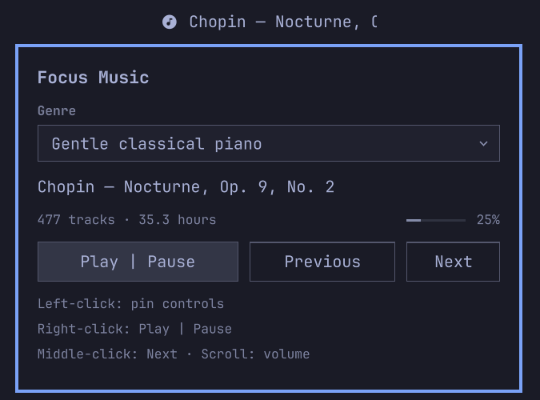
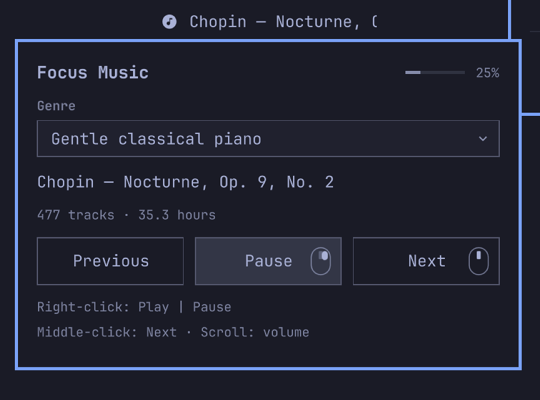
Refine playback controls and make volume feedback immediate

diff --git a/BarWidget.qml b/BarWidget.qml
@@ -21,6 +21,33 @@ BarWidget {
         Quickshell.execDetached(command)
     }
     property var player: ({text: "", phase: "Stopped", banner: "Focus music", tooltip: "Focus music — click to choose a genre"})
+    property real displayedVolume: 20
+    property bool volumePending: false
+    onPlayerChanged: {
+        if (!volumeChange.running && !volumePending && player.volume !== undefined)
+            displayedVolume = player.volume
+    }
+    function adjustVolume(delta) {
+        displayedVolume = Math.max(0, Math.min(100, displayedVolume + delta))
+        volumePending = true
+        flushVolume()
+    }
+    function flushVolume() {
+        if (volumeChange.running || !volumePending) return
+        volumePending = false
+        volumeChange.command = ["python3", controllerPath, "volume-set", String(displayedVolume)]
+        volumeChange.running = true
+    }
+    Process {
+        id: volumeChange
+        stdout: StdioCollector { id: volumeResult }
+        onExited: function(exitCode) {
+            if (!root.volumePending && exitCode === 0) {
+                try { root.displayedVolume = JSON.parse(volumeResult.text).volume } catch (e) {}
+            }
+            Qt.callLater(root.flushVolume)
+        }
+    }
     implicitWidth: button.implicitWidth
     implicitHeight: button.implicitHeight
 
@@ -44,7 +71,7 @@ BarWidget {
         }
     }
     Timer {
-        interval: 2000
+        interval: root.popupOpen ? 400 : 2000
         running: true
         repeat: true
         triggeredOnStart: true
@@ -73,7 +100,7 @@ BarWidget {
             }
         }
         onWheelMoved: function(delta) {
-            root.runAction("volume", delta > 0 ? 5 : -5)
+            root.adjustVolume(delta > 0 ? 5 : -5)
         }
         OpticalGlyph {
             id: glyph
@@ -174,13 +201,33 @@ BarWidget {
             id: controls
             anchors.fill: parent
             spacing: Style.space(10)
-            Text {
+            RowLayout {
                 width: parent.width
-                text: "Focus Music"
-                color: Color.foreground
-                font.family: Style.font.family
-                font.pixelSize: Style.font.subtitle
-                font.bold: true
+                spacing: Style.space(8)
+                Text {
+                    Layout.fillWidth: true
+                    text: "Focus Music"
+                    color: Color.foreground
+                    font.family: Style.font.family
+                    font.pixelSize: Style.font.subtitle
+                    font.bold: true
+                }
+                Rectangle {
+                    implicitWidth: Style.space(44)
+                    implicitHeight: Style.space(2)
+                    color: Qt.rgba(Color.foreground.r, Color.foreground.g, Color.foreground.b, 0.15)
+                    Rectangle {
+                        width: parent.width * root.displayedVolume / 100
+                        height: parent.height
+                        color: Qt.rgba(Color.foreground.r, Color.foreground.g, Color.foreground.b, 0.7)
+                    }
+                }
+                Text {
+                    text: Math.round(root.displayedVolume) + "%"
+                    color: Qt.rgba(Color.foreground.r, Color.foreground.g, Color.foreground.b, 0.7)
+                    font.family: Style.font.family
+                    font.pixelSize: Style.font.caption
+                }
             }
             Dropdown {
                 id: genreSelect
@@ -217,40 +264,61 @@ BarWidget {
                     font.family: Style.font.family
                     font.pixelSize: Style.font.caption
                 }
-                Rectangle {
-                    implicitWidth: Style.space(44)
-                    implicitHeight: Style.space(2)
-                    color: Qt.rgba(Color.foreground.r, Color.foreground.g, Color.foreground.b, 0.15)
-                    Rectangle {
-                        width: parent.width * Math.max(0, Math.min(100, root.player.volume || 0)) / 100
-                        height: parent.height
-                        color: Qt.rgba(Color.foreground.r, Color.foreground.g, Color.foreground.b, 0.7)
-                    }
-                }
-                Text {
-                    text: (root.player.volume === undefined ? 20 : root.player.volume) + "%"
-                    color: Qt.rgba(Color.foreground.r, Color.foreground.g, Color.foreground.b, 0.7)
-                    font.family: Style.font.family
-                    font.pixelSize: Style.font.caption
-                }
             }
             RowLayout {
+                id: playbackControls
                 width: parent.width
                 spacing: Style.space(8)
+                readonly property real buttonWidth: (width - spacing * 2) / 3
                 Button {
-                    Layout.fillWidth: true
-                    text: "Play | Pause"
+                    Layout.preferredWidth: playbackControls.buttonWidth
+                    Layout.minimumWidth: playbackControls.buttonWidth
+                    Layout.maximumWidth: playbackControls.buttonWidth
+                    Layout.preferredHeight: Style.space(36)
+                    text: "Previous"
+                    bordered: true
+                    focusable: true
+                    onClicked: root.runAction("previous")
+                }
+                Button {
+                    Layout.preferredWidth: playbackControls.buttonWidth
+                    Layout.minimumWidth: playbackControls.buttonWidth
+                    Layout.maximumWidth: playbackControls.buttonWidth
+                    Layout.preferredHeight: Style.space(36)
+                    text: root.player.phase === "Playing" ? "Pause" : "Play"
                     active: root.player.phase === "Playing"
                     bordered: true
                     focusable: true
+                    tooltipText: "Right-click the banner to play or pause"
                     onClicked: root.runAction("toggle")
+                    MouseHint {
+                        button: "right"
+                        anchors.right: parent.right
+                        anchors.rightMargin: Style.space(8)
+                        anchors.verticalCenter: parent.verticalCenter
+                    }
                 }
-                Button { Layout.fillWidth: true; text: "Previous"; bordered: true; focusable: true; onClicked: root.runAction("previous") }
-                Button { Layout.fillWidth: true; text: "Next"; bordered: true; focusable: true; onClicked: root.runAction("skip") }
+                Button {
+                    Layout.preferredWidth: playbackControls.buttonWidth
+                    Layout.minimumWidth: playbackControls.buttonWidth
+                    Layout.maximumWidth: playbackControls.buttonWidth
+                    Layout.preferredHeight: Style.space(36)
+                    text: "Next"
+                    bordered: true
+                    focusable: true
+                    tooltipText: "Middle-click the banner for the next track"
+                    onClicked: root.runAction("skip")
+                    MouseHint {
+                        button: "middle"
+                        anchors.right: parent.right
+                        anchors.rightMargin: Style.space(8)
+                        anchors.verticalCenter: parent.verticalCenter
+                    }
+                }
             }
             Text {
                 width: parent.width
-                text: "Left-click: pin controls\nRight-click: Play | Pause\nMiddle-click: Next · Scroll: volume"
+                text: "Right-click: Play | Pause\nMiddle-click: Next · Scroll: volume"
                 textFormat: Text.PlainText
                 color: Qt.rgba(Color.foreground.r, Color.foreground.g, Color.foreground.b, 0.7)
                 font.family: Style.font.family

diff --git a/MouseHint.qml b/MouseHint.qml
@@ -1,0 +1,34 @@
+import QtQuick
+import qs.Commons
+
+Item {
+    property string button: "right"
+    width: Style.space(15)
+    height: Style.space(21)
+    Rectangle {
+        anchors.fill: parent
+        radius: width / 2
+        color: "transparent"
+        border.width: Style.space(1)
+        border.color: Color.foreground
+        opacity: 0.65
+    }
+    Rectangle {
+        visible: button === "right"
+        x: parent.width / 2 + Style.space(1)
+        y: Style.space(3)
+        width: parent.width / 2 - Style.space(3)
+        height: Style.space(7)
+        radius: Style.space(2)
+        color: Color.foreground
+    }
+    Rectangle {
+        anchors.horizontalCenter: parent.horizontalCenter
+        y: Style.space(3)
+        width: Style.space(3)
+        height: Style.space(6)
+        radius: Style.space(1)
+        color: Color.foreground
+        opacity: button === "middle" ? 1 : 0.35
+    }
+}

diff --git a/tests/test_focus_music.py b/tests/test_focus_music.py
@@ -92,6 +92,13 @@ class DeploymentTests(unittest.TestCase):
                     self.assertEqual(json.loads(result.stdout)['phase'], 'Stopped')
                     subprocess.run(command + ['volume', '5'], env=env, cwd=install,
                                    capture_output=True, text=True, check=True)
+                    for requested, expected in [('100', 100), ('95', 95), ('-5', 0), ('30', 30)]:
+                        result = subprocess.run(command + ['volume-set', requested], env=env,
+                                                cwd=install, capture_output=True, text=True, check=True)
+                        self.assertEqual(json.loads(result.stdout)['volume'], expected)
+                    result = subprocess.run(command + ['status'], env=env, cwd=install,
+                                            capture_output=True, text=True, check=True)
+                    self.assertEqual(json.loads(result.stdout)['volume'], 30)
                     state_root = Path(env.get('XDG_STATE_HOME') or home / '.local/state')
                     self.assertTrue((state_root / 'focus-music/state.json').exists())
                     self.assertFalse((install / 'focus-music/state.json').exists())

diff --git a/README.md b/README.md
@@ -9,7 +9,7 @@ Instrumental background music, one click from your desktop bar. Pick a genre, se
 - Five instrumental genres, each with more than 24 hours of catalogued music.
 - Shuffled queues. Choosing a genre starts another unplayed track instead of resuming.
 - A fixed-width artist/track banner that scrolls continuously in one direction, pausing at the beginning.
-- A themed hover popup with a genre dropdown, Play | Pause, Previous, Next, a volume readout, and mouse-control guide. Left-click pins it open.
+- A themed hover popup with a genre dropdown, equally sized Previous, Play/Pause, and Next buttons with mouse-button hints, an instant volume readout beside the title, and mouse-control guide. Left-click pins it open.
 - Background audio through mpv, streamed from YouTube without opening a browser.
 - Background track loudness leveling with peak-safe fixed gain, preserving the dynamics inside each piece.
 - No audio files bundled or permanently downloaded.
